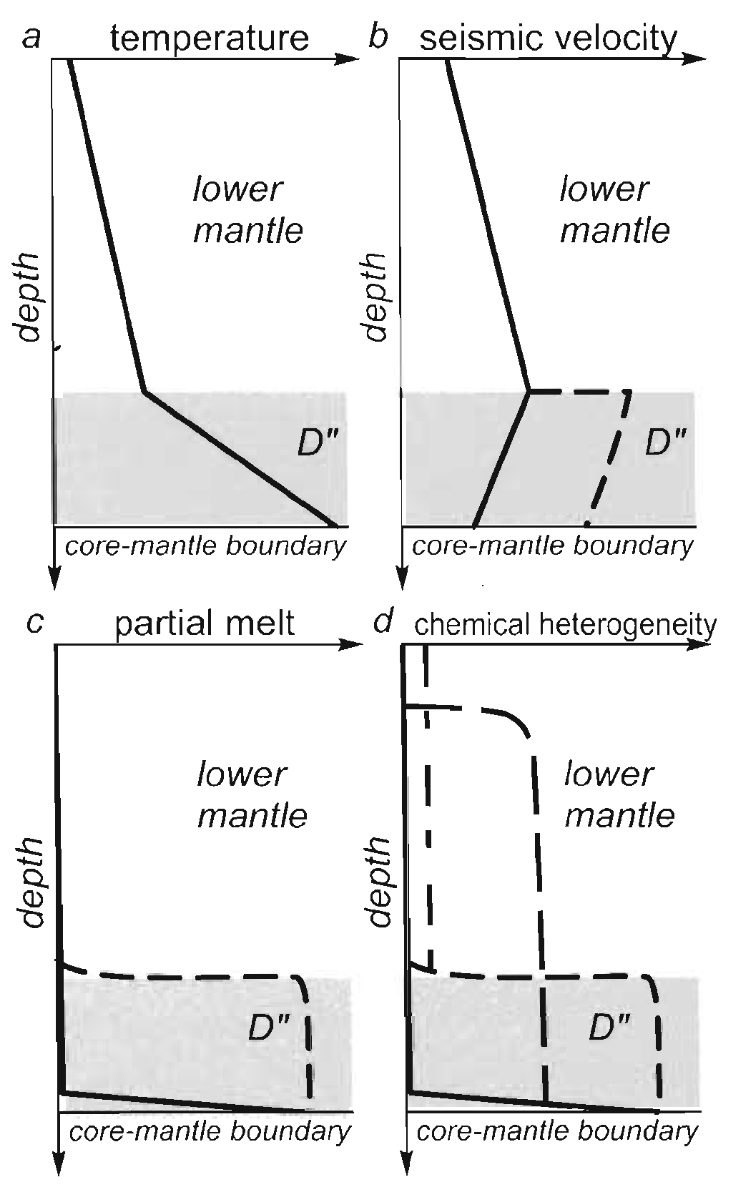
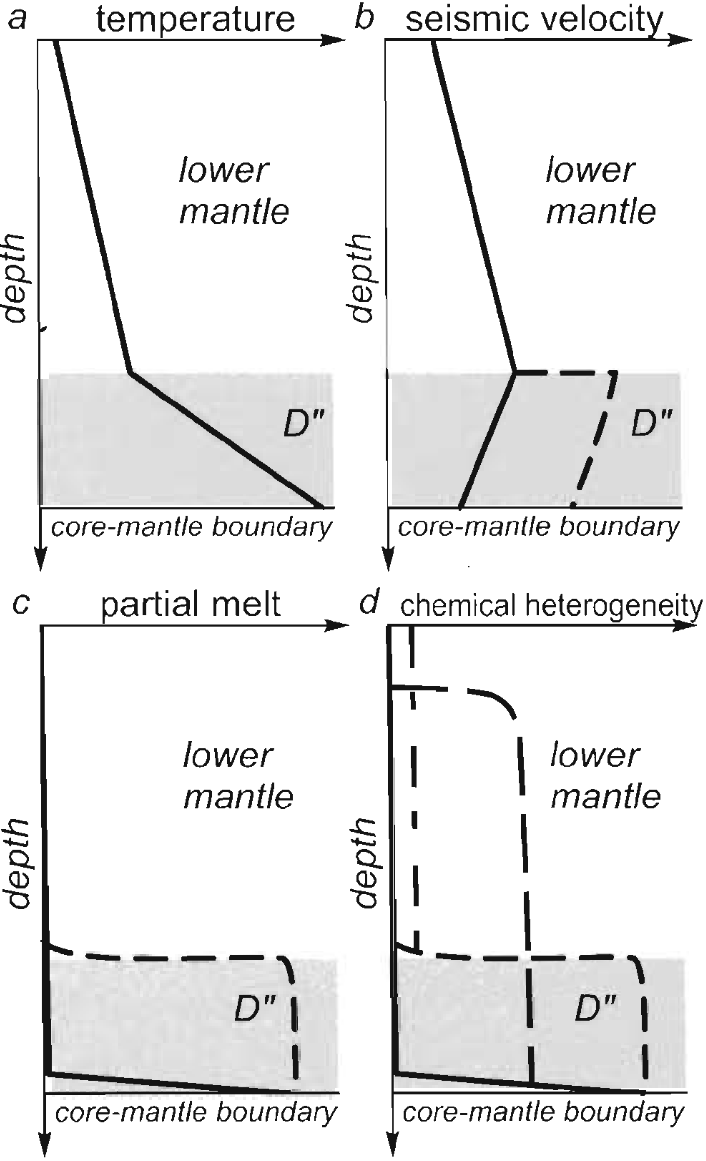
finish intro

diff --git a/eeps-5534/paper1/paper1.tex b/eeps-5534/paper1/paper1.tex
@@ -74,17 +74,15 @@ This paper will review our contemporary understanding of anisotropy in the D$''$
 % how do we identify lower mantle anisotropy
 %   - geochem, geophys evidence
 
+In the lowermost mantle, the 200--300~km above the core-mantle boundary (CMB) is characterized by changes in temperature, seismic velocity, partial melt, and chemical heterogeneity, as shown in Figure~\ref{fig:anomalies_dprimeprime}. This layer, known as the D$''$ layer after \textcite{bullenCompressibilityPressureHypothesisEarths1949}, is the transition between the outer core and the lower mantle. It has a distinct and variable topography, with significant lateral variations in the observed characteristics \parencite{garneroNewParadigmEarths2004}.
 The D$''$ layer plays a fundamental role in the dynamics of the overlying mantle and the core below; it is the lower thermal boundary layer of the mantle convection system, it controls the heat flux out of the core that affects the geodynamo, and it is critical for understanding mantle plumes, slab stagnation, and global convection patterns \parencite{romanowiczAnisotropyDeepEarth2017,garneroNewParadigmEarths2004}. The D$''$ layer, Seismic anisotropy in the D$''$ layer is a crucial tool for understanding these lowermost mantle processes and structures \parencite{wolfAdvancesMappingLowermost2024}.
-However, isolating and interpreting D$''$ anisotropy poses many challenges; our understanding of seismic anisotropy in this region along the core-mantle boundary (CMB) is complicated by the relationship between anisotropy and large low-shear-velocity (LLVPs) \parencite{romanowiczAnisotropyDeepEarth2017,wolfGlobalCompilationDeep2023}, ultra-low velocity zones (ULVZs) \parencite{wolfAdvancesMappingLowermost2024}, and the distribution and contributions to anisotropy of the dominant mineral phases (post-perovskite, ferropericlase, and bridgmanite) \parencite{peltierMantleDynamicsLayer2007}.
-
 \begin{wrapfigure}{l}{0.4\textwidth}
     \centering
-    \includegraphics[height=0.43\textheight]{anomalies_dprimeprime}
+    \includegraphics[height=0.45\textheight]{anomalies_dprimeprime}
     \caption{Changes in temperature (a), seismic velocity (b), partial melt (c), and chemical heterogeneity (d) between the lower mantle and the D'' layer, adapted from \textcite{peltierMantleDynamicsLayer2007}.}
     \label{fig:anomalies_dprimeprime}
 \end{wrapfigure}
-
-% todo describe important observed changes at D''
+However, isolating and interpreting D$''$ anisotropy poses many challenges; our understanding of seismic anisotropy in this region along the CMB is complicated by the relationship between anisotropy and large low-shear-velocity (LLVPs) \parencite{romanowiczAnisotropyDeepEarth2017,wolfGlobalCompilationDeep2023}, ultra-low velocity zones (ULVZs) \parencite{wolfAdvancesMappingLowermost2024}, and the distribution and contributions to anisotropy of the dominant mineral phases (post-perovskite, ferropericlase, and bridgmanite) \parencite{peltierMantleDynamicsLayer2007}.
 
 D$''$ anisotropy is highly dependent on the distribution of the dominant lower mantle minerals and their relative anisotropies. \textcite{hirose205MineralogyDeep2015} suggest the relative abundance of the primary minerals is about \textasciitilde30\% \ce{(Mg, Fe)O} (ferropericlase; Fp) and \textasciitilde70\% \ce{(Mg, Fe)SiO3}, "…which may be present as bridgmanite [Br] in hotter regions and post-perovskite [pPv] in colder ones" \parencite{hirose205MineralogyDeep2015}. Critically, improvements in experimental technologies and techniques in the early 2000s made it possible to experimentally isolate the pPv phase, which has a strong intrinsic elastic anisotropy and may be the dominant phase in the anisotropic regions of D$''$  \parencite{oganovTheoreticalExperimentalEvidence2004,murakamiPostPerovskitePhaseTransition2004}. Phase transitions to pPv structure at lowermost mantle P-T conditions are reported for many compositions \parencite{hirosePostperovskitePhaseTransition2006}.
 Generally speaking, two distinct phenomena are responsible for generating seismic anisotropy: lattice-preferred orientation (LPO) and shape-preferred orientation (SPO). LPO, which is considered the dominant source of anisotropy \parencite{savageSeismicAnisotropyMantle1999}, forms in high-strain regions as material is deformed under shear stress imposed by mantle flow. Under simple shear, deformation via dislocation creep drives the preferential realignment of the crystal axes relative to the shear direction \parencite{kocksTextureAnisotropyPreferred2000}. SPO may be an alternative or complementary explanation for D$''$ anisotropy, but it is difficult to differentiate its effect \parencite{reissLowermostMantleAnisotropy2019}.
@@ -100,7 +98,7 @@ LPO development in the lowermost mantle depends on the relationship between the 
 The dominant slip system in pPv is not well-constrained \parencite{romanowiczAnisotropyDeepEarth2017,carrezImplicationsPlasticFlow2007,reissLowermostMantleAnisotropy2019}. Experimental and computational studies propose different deformation mechanisms, including slip on the (001), (010) \parencite[strong \ce{CaIrO3} pPv LPO][]{carrezImplicationsPlasticFlow2007}, and \{110\} planes \parencite[\ce{MgGeO3} pPv analogue][]{carrezImplicationsPlasticFlow2007}. Because each proposed slip system produces a distinct LPO, the resulting radial and azimuthal anisotropy also differs. Recent models of LPO evolution in pPv (\textasciitilde70\%) and Fp (\textasciitilde30\%) for both CMB-parallel flow and upwelling/downwelling flow by \textcite{tommasiDeformationCrystalPreferred2018} produce both radial and azimuthal anisotropy components.
 %In particular, the pPv phase transition
 
-Fp likely also contributes to D$''$ anisotropy because of its strong intrinsic elastic anisotropy \parencite{marquardtElasticShearAnisotropy2009}. In particular, LPO developed in Fp within cold downwelling regions may produce measurable SWS, although its deformation behavior and slip-system activity remain poorly constrained. However, it is less abundant than pPv. The relative distribution of both phases in different regions of the lowermost mantle may control
+Fp likely also contributes to D$''$ anisotropy because of its strong intrinsic elastic anisotropy \parencite{marquardtElasticShearAnisotropy2009}. In particular, LPO developed in Fp within cold downwelling regions (e.g., sinking paleoslab material) may produce measurable SWS, although its deformation behavior and slip-system activity remain poorly constrained; however, it is less abundant than pPv \parencite{wolfAdvancesMappingLowermost2024}. The relative distribution of both phases in different regions of the lowermost mantle may control the type and strength of observed anisotropy.
 
 \begin{figure}[h!]
     \centering
